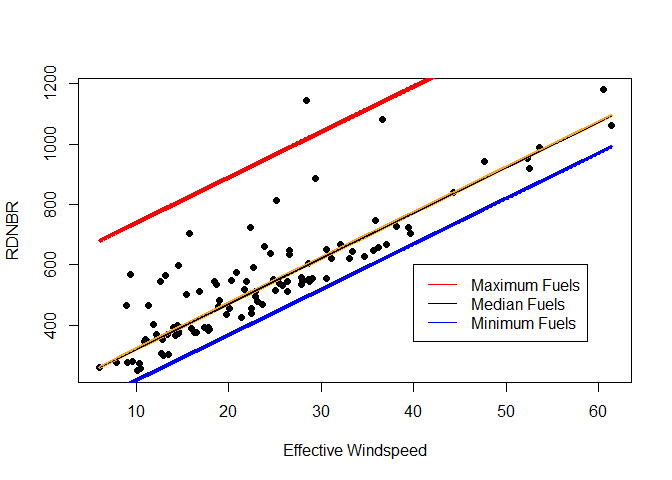
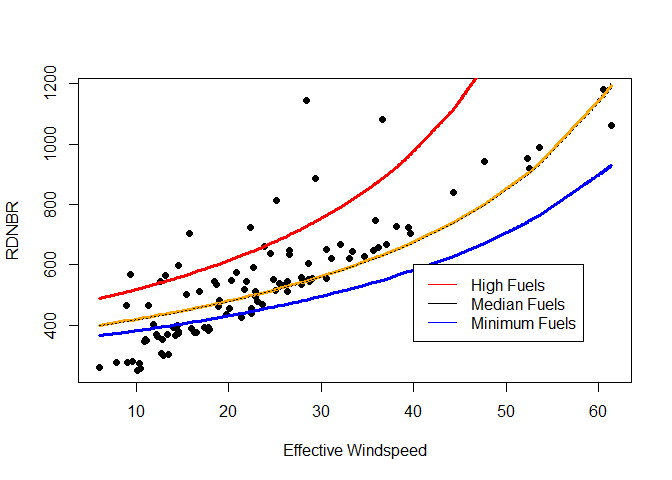
Updating script for calculating mortality to reflect inverse model

diff --git a/Supporting R Code/Mortality/readme.md b/Supporting R Code/Mortality/readme.md
@@ -203,93 +203,96 @@ intensity could also be used. We test that against the effective
 windspeed, fuels, and climatic water deficit
 
 ``` r
-glm2<-with(TestingSet,glm(RDNBR~Eff_Windspeed+Fuels+Climatic_Water_Deficit))
+glm2<-with(TestingSet,glm(RDNBR~Eff_Windspeed+Fuels+Climatic_Water_Deficit,family=Gamma(link="inverse")))
 summary(glm2)
 ```
 
     ## 
     ## Call:
-    ## glm(formula = RDNBR ~ Eff_Windspeed + Fuels + Climatic_Water_Deficit)
+    ## glm(formula = RDNBR ~ Eff_Windspeed + Fuels + Climatic_Water_Deficit, 
+    ##     family = Gamma(link = "inverse"))
     ## 
     ## Deviance Residuals: 
     ##      Min        1Q    Median        3Q       Max  
-    ## -230.423   -14.735     4.784    18.536   130.182  
+    ## -0.38602  -0.11152   0.01961   0.11720   0.27201  
     ## 
     ## Coefficients:
-    ##                         Estimate Std. Error t value Pr(>|t|)    
-    ## (Intercept)            68.592943   3.570643  19.210   <2e-16 ***
-    ## Eff_Windspeed          15.047521   0.092446 162.772   <2e-16 ***
-    ## Fuels                   0.689426   0.008716  79.097   <2e-16 ***
-    ## Climatic_Water_Deficit -0.006007   0.009111  -0.659     0.51    
+    ##                          Estimate Std. Error t value Pr(>|t|)    
+    ## (Intercept)             3.178e-03  1.930e-05  164.63  < 2e-16 ***
+    ## Eff_Windspeed          -3.542e-05  3.570e-07  -99.19  < 2e-16 ***
+    ## Fuels                  -1.744e-06  3.577e-08  -48.74  < 2e-16 ***
+    ## Climatic_Water_Deficit -1.765e-07  4.863e-08   -3.63 0.000291 ***
     ## ---
     ## Signif. codes:  0 '***' 0.001 '**' 0.01 '*' 0.05 '.' 0.1 ' ' 1
     ## 
-    ## (Dispersion parameter for gaussian family taken to be 2414.999)
+    ## (Dispersion parameter for Gamma family taken to be 0.02216914)
     ## 
-    ##     Null deviance: 79382737  on 1999  degrees of freedom
-    ## Residual deviance:  4820338  on 1996  degrees of freedom
-    ## AIC: 21261
+    ##     Null deviance: 245.618  on 1999  degrees of freedom
+    ## Residual deviance:  47.326  on 1996  degrees of freedom
+    ## AIC: 23187
     ## 
-    ## Number of Fisher Scoring iterations: 2
+    ## Number of Fisher Scoring iterations: 4
 
-It seems there is no relationship with climatic water deficit. We can
-refit the model without it.
+We can test other models to see which performs best.
 
 ``` r
-glm3<-with(TestingSet,glm(RDNBR~Eff_Windspeed+Fuels))
+glm3<-with(TestingSet,glm(RDNBR~Eff_Windspeed+Fuels,family=gaussian(link="inverse")))
 summary(glm3)
 ```
 
     ## 
     ## Call:
-    ## glm(formula = RDNBR ~ Eff_Windspeed + Fuels)
+    ## glm(formula = RDNBR ~ Eff_Windspeed + Fuels, family = gaussian(link = "inverse"))
     ## 
     ## Deviance Residuals: 
     ##      Min        1Q    Median        3Q       Max  
-    ## -230.195   -15.790     4.442    19.143   129.221  
+    ## -226.181   -61.645     6.286    56.858   164.540  
     ## 
     ## Coefficients:
-    ##                Estimate Std. Error t value Pr(>|t|)    
-    ## (Intercept)   67.324847   3.007829   22.38   <2e-16 ***
-    ## Eff_Windspeed 15.048738   0.092414  162.84   <2e-16 ***
-    ## Fuels          0.689148   0.008705   79.17   <2e-16 ***
+    ##                 Estimate Std. Error t value Pr(>|t|)    
+    ## (Intercept)    2.922e-03  1.455e-05   200.8   <2e-16 ***
+    ## Eff_Windspeed -3.007e-05  2.619e-07  -114.8   <2e-16 ***
+    ## Fuels         -1.581e-06  2.332e-08   -67.8   <2e-16 ***
     ## ---
     ## Signif. codes:  0 '***' 0.001 '**' 0.01 '*' 0.05 '.' 0.1 ' ' 1
     ## 
-    ## (Dispersion parameter for gaussian family taken to be 2414.315)
+    ## (Dispersion parameter for gaussian family taken to be 6091.288)
     ## 
     ##     Null deviance: 79382737  on 1999  degrees of freedom
-    ## Residual deviance:  4821387  on 1997  degrees of freedom
-    ## AIC: 21259
+    ## Residual deviance: 12164244  on 1997  degrees of freedom
+    ## AIC: 23110
     ## 
-    ## Number of Fisher Scoring iterations: 2
+    ## Number of Fisher Scoring iterations: 6
 
 Lets take a look of that relationship.
 
 ``` r
 ### Plotting the model 
-ysim_No<-with(TestingSet,predict(glm3,
-                      data.frame(Eff_Windspeed = Eff_Windspeed,Fuels=(rep(0,length(Eff_Windspeed)))) ,
-                      type="response",se=T))
-ysim_Median<-with(TestingSet,predict(glm3,
-                 data.frame(Eff_Windspeed = Eff_Windspeed,Fuels=(rep(median(Fuels),length(Eff_Windspeed)))) ,
-                 type="response",se=T))
-ysim_Max<-with(TestingSet,predict(glm3,
-                     data.frame(Eff_Windspeed = Eff_Windspeed,Fuels=(rep(max(Fuels),length(Eff_Windspeed)))) ,
-                     type="response",se=T))
+ysim_No<-predict(glm3,
+                      data.frame(Eff_Windspeed = TestingSet$Eff_Windspeed[order(TestingSet$Eff_Windspeed)],Fuels=(rep(0,length(TestingSet$Eff_Windspeed)))) ,
+                      type="response",se=T)
+ysim_Median<-predict(glm3,
+                      data.frame(Eff_Windspeed = TestingSet$Eff_Windspeed[order(TestingSet$Eff_Windspeed)],Fuels=(rep(median(TestingSet$Fuels),length(TestingSet$Eff_Windspeed))))  ,
+                      type="response",se=T)
+ysim_Max<-predict(glm3,
+                      data.frame(Eff_Windspeed = TestingSet$Eff_Windspeed[order(TestingSet$Eff_Windspeed)],Fuels=(rep(quantile(TestingSet$Fuels,.95),length(TestingSet$Eff_Windspeed)))) ,
+                      type="response",se=T)
 
 
 plot(TestingSet$Eff_Windspeed,TestingSet$RDNBR,  pch = 16, xlab = "Effective Windspeed", ylab = "RDNBR")
-lines(TestingSet$Eff_Windspeed,ysim_Median$fit+ysim_Median$se.fit,col="black",lwd=1.0,lty=3.0)
-lines(TestingSet$Eff_Windspeed,ysim_Median$fit,col="orange",lwd=3.0)
-lines(TestingSet$Eff_Windspeed,ysim_Median$fit-ysim_Median$se.fit,col="black",lwd=1.0,lty=3.0)
-lines(TestingSet$Eff_Windspeed,ysim_Max$fit+ysim_Max$se.fit,col="red",lwd=1.0,lty=3.0)
-lines(TestingSet$Eff_Windspeed,ysim_Max$fit,col="red",lwd=3.0)
-lines(TestingSet$Eff_Windspeed,ysim_Max$fit-ysim_Max$se.fit,col="red",lwd=1.0,lty=3.0)
-lines(TestingSet$Eff_Windspeed,ysim_No$fit+ysim_No$se.fit,col="blue",lwd=1.0,lty=3.0)
-lines(TestingSet$Eff_Windspeed,ysim_No$fit,col="blue",lwd=3.0)
-lines(TestingSet$Eff_Windspeed,ysim_No$fit-ysim_No$se.fit,col="blue",lwd=1.0,lty=3.0)
-legend(40,600.0,legend=c("Maximum Fuels","Median Fuels","Minimum Fuels"),
+lines(TestingSet$Eff_Windspeed[order(TestingSet$Eff_Windspeed)],ysim_No$fit+ysim_No$se.fit,col="blue",lwd=1.0,lty=3.0)
+
+
+lines(TestingSet$Eff_Windspeed[order(TestingSet$Eff_Windspeed)],ysim_Median$fit+ysim_Median$se.fit,col="black",lwd=1.0,lty=3.0)
+lines(TestingSet$Eff_Windspeed[order(TestingSet$Eff_Windspeed)],ysim_Median$fit,col="orange",lwd=3.0)
+lines(TestingSet$Eff_Windspeed[order(TestingSet$Eff_Windspeed)],ysim_Median$fit-ysim_Median$se.fit,col="black",lwd=1.0,lty=3.0)
+lines(TestingSet$Eff_Windspeed[order(TestingSet$Eff_Windspeed)],ysim_Max$fit+ysim_Max$se.fit,col="red",lwd=1.0,lty=3.0)
+lines(TestingSet$Eff_Windspeed[order(TestingSet$Eff_Windspeed)],ysim_Max$fit,col="red",lwd=3.0)
+lines(TestingSet$Eff_Windspeed[order(TestingSet$Eff_Windspeed)],ysim_Max$fit-ysim_Max$se.fit,col="red",lwd=1.0,lty=3.0)
+
+lines(TestingSet$Eff_Windspeed[order(TestingSet$Eff_Windspeed)],ysim_No$fit,col="blue",lwd=3.0)
+lines(TestingSet$Eff_Windspeed[order(TestingSet$Eff_Windspeed)],ysim_No$fit-ysim_No$se.fit,col="blue",lwd=1.0,lty=3.0)
+legend(40,600.0,legend=c("High Fuels","Median Fuels","Minimum Fuels"),
        lty=c(1,1,1),col=c("red","black","blue")) 
 ```
 
@@ -297,7 +300,7 @@ legend(40,600.0,legend=c("Maximum Fuels","Median Fuels","Minimum Fuels"),
 
 This analysis provides us with the following parameters.
 
-  - SiteMortalityB0 68.592943 \<\< Intercept
+  - SiteMortalityB0 2.922e-03 \<\< Intercept
 
   - SiteMortalityB1 0.00 \<\< The parameter fit for site level clay % in
     Soil.
@@ -305,13 +308,13 @@ This analysis provides us with the following parameters.
   - SiteMortalityB2 0.00 \<\< The parameter fit for site level previous
     years annual ET.
 
-  - SiteMortalityB3 15.047521 \<\< The parameter fit for site level
+  - SiteMortalityB3 -3.007e-05 \<\< The parameter fit for site level
     Effective Windspeed.
 
   - SiteMortalityB4 0.00.0 \<\< The parameter fit for site level
     Climatic Water Deficit (PET-AET).
 
-  - SiteMortalityB5 0.689426 \<\< The parameter fit for fine fuels.
+  - SiteMortalityB5 -1.581e-06 \<\< The parameter fit for fine fuels.
 
   - SiteMortalityB6 0.0 \<\< The parameter fit for ladder fuels.
 
